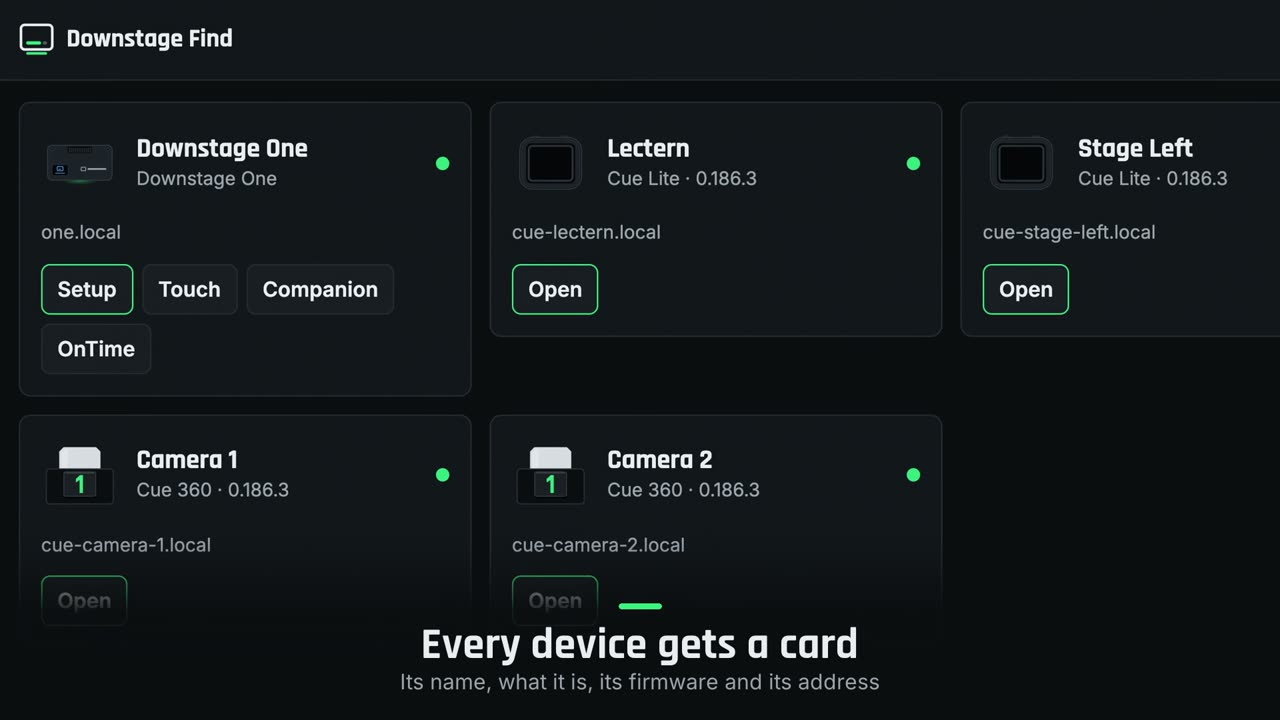
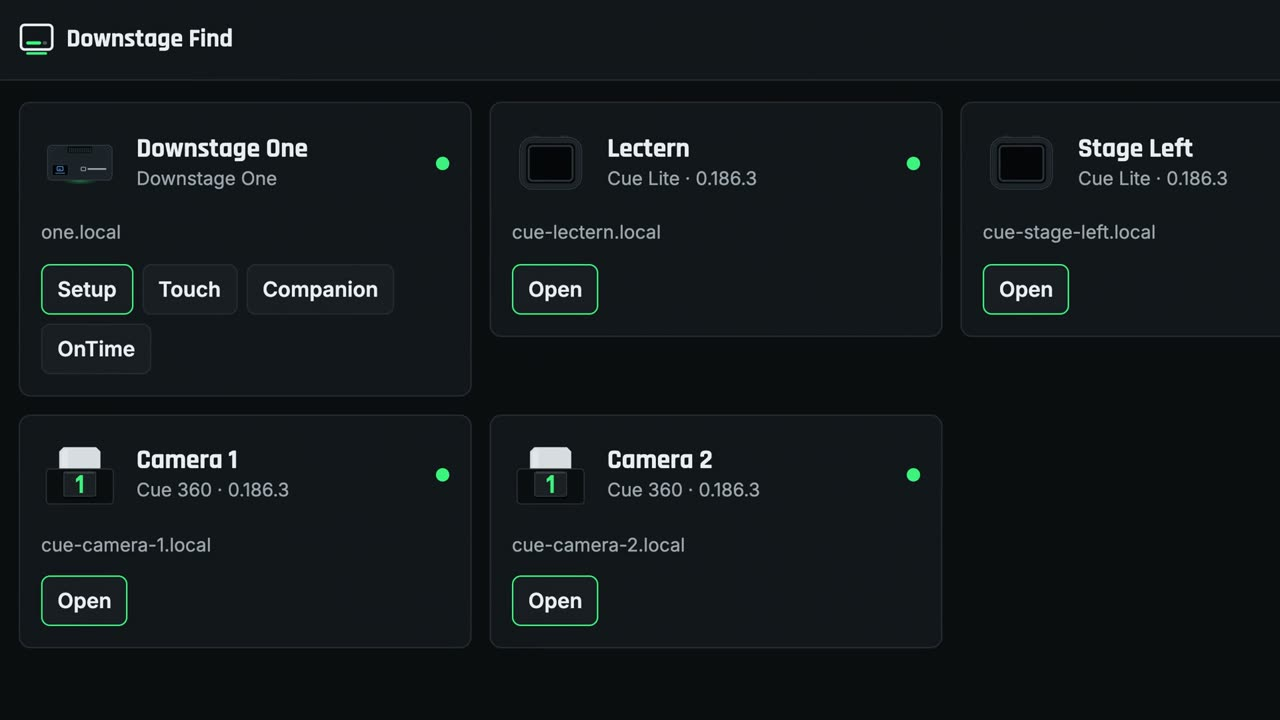
Support: Mac apps first, the Cue lights under their own heading, and app cards use frames without captions (Rob)

Changed region(s): [[0.3125, 0.7944, 0.6875, 0.9778], [0.0312, 0.7944, 0.0938, 0.8861]]

diff --git a/support/index.html b/support/index.html
@@ -50,7 +50,50 @@
 <section class="sec support-hero" aria-labelledby="sup-h">
   <div class="head" data-rise>
     <h1 id="sup-h">Downstage Support</h1>
-    <p>Tutorials, setup and help for the Cue Lite, Cue 360, Cue Mini and our Mac apps.</p>
+    <p>Help for our Mac apps and Cue lights.</p>
+  </div>
+  <div class="pills" data-rise style="--i:1">
+    <a class="pill" href="#apps">Mac apps</a>
+    <a class="pill" href="#cue-lights">Cue lights</a>
+    <a class="pill ghost" href="#contact">Contact us</a>
+  </div>
+</section>
+
+<section class="sec light" id="apps" aria-labelledby="apps-h">
+  <div class="head" data-rise>
+    <h2 id="apps-h">Mac apps.</h2>
+    <p>Setup steps, how to use each app, and answers.</p>
+  </div>
+  <div class="tuts" data-rise>
+      <!-- app-support cards -->
+      <a class="tut ready" href="/support/apps/show-builder/">
+        <div class="poster"><img class="shot" src="/static/video/tutorials/show-builder-poster.jpg?v=2" alt="" width="1280" height="720" loading="lazy"><span class="badge">Video and guide</span><span class="play" aria-hidden="true"></span></div>
+        <h3>Show Builder</h3>
+        <p>Lay out and send your first Companion page.</p>
+      </a>
+      <a class="tut ready" href="/support/apps/supersource-builder/">
+        <div class="poster"><img class="shot" src="/static/video/loops/supersource-smart-buttons-poster.jpg?v=2" alt="" width="1280" height="720" loading="lazy"><span class="badge">Guide</span></div>
+        <h3>SuperSource Builder</h3>
+        <p>Design a SuperSource look and its Companion buttons.</p>
+      </a>
+      <a class="tut ready" href="/support/apps/virtual-deck/">
+        <div class="poster"><img class="shot" src="/static/video/tutorials/virtual-deck-poster.jpg?v=2" alt="" width="1280" height="720" loading="lazy"><span class="badge">Video and guide</span><span class="play" aria-hidden="true"></span></div>
+        <h3>Virtual Deck</h3>
+        <p>Put a Stream Deck on your screen and join Companion.</p>
+      </a>
+      <a class="tut ready" href="/support/apps/downstage-find/">
+        <div class="poster"><img class="shot" src="/static/video/tutorials/downstage-find-poster.jpg?v=2" alt="" width="1280" height="720" loading="lazy"><span class="badge">Video and guide</span><span class="play" aria-hidden="true"></span></div>
+        <h3>Downstage Find</h3>
+        <p>Find your Downstage devices and open their apps.</p>
+      </a>
+      <!-- /app-support cards -->
+  </div>
+</section>
+
+<section class="sec dark" id="cue-lights" aria-labelledby="cue-h">
+  <div class="head" data-rise>
+    <h2 id="cue-h">Cue lights.</h2>
+    <p>Tutorials, setup and help for the Cue Lite, Cue 360 and Cue Mini.</p>
   </div>
   <div class="pills" data-rise style="--i:1">
     <a class="pill ghost" href="#tutorials">Tutorials</a>
@@ -58,14 +101,12 @@
     <a class="pill ghost" href="#downloads">Guide and updates</a>
     <a class="pill ghost" href="#questions">Questions</a>
     <a class="pill ghost" href="#help">Troubleshooting</a>
-    <a class="pill ghost" href="#apps">Apps</a>
-    <a class="pill ghost" href="#contact">Contact us</a>
   </div>
 </section>
 
 <section class="sec light" id="tutorials" aria-labelledby="tut-h">
   <div class="head" data-rise>
-    <h2 id="tut-h">Tutorials.</h2>
+    <h2 id="tut-h">Cue light tutorials.</h2>
   </div>
   <div class="tuts">
       <a class="tut" id="tut-setup" data-video="setup" href="#tutorials" aria-disabled="true">
@@ -119,7 +160,7 @@
 
 <section class="sec" id="questions" aria-labelledby="sq-h">
   <div class="head" data-rise>
-    <h2 id="sq-h">Questions.</h2>
+    <h2 id="sq-h">Cue light questions.</h2>
   </div>
   <div class="faq">
     <details name="faq">
@@ -147,7 +188,7 @@
 
 <section class="sec light" id="help" aria-labelledby="help-h">
   <div class="head" data-rise>
-    <h2 id="help-h">Troubleshooting.</h2>
+    <h2 id="help-h">Cue light troubleshooting.</h2>
     <p>A Downstage light says what is wrong in a sentence. Here is what to do about it.</p>
   </div>
   <div class="faq">
@@ -195,37 +236,6 @@
       <summary>How do I update a light?</summary>
       <div class="ans">Updates are uploaded from the light's own page, and the light restarts on the new version. Firmware downloads will be posted on this page.</div>
     </details>
-  </div>
-</section>
-
-<section class="sec" id="apps" aria-labelledby="apps-h">
-  <div class="head" data-rise>
-    <h2 id="apps-h">Apps.</h2>
-    <p>Setup steps, how to use them and answers for each of our Mac apps.</p>
-  </div>
-  <div class="tuts" data-rise>
-      <!-- app-support cards -->
-      <a class="tut ready" href="/support/apps/show-builder/">
-        <div class="poster"><img class="shot" src="/static/video/tutorials/show-builder-poster.jpg?v=1" alt="" width="1280" height="720" loading="lazy"><span class="badge">Video and guide</span><span class="play" aria-hidden="true"></span></div>
-        <h3>Show Builder</h3>
-        <p>Lay out and send your first Companion page.</p>
-      </a>
-      <a class="tut ready" href="/support/apps/supersource-builder/">
-        <div class="poster"><img class="shot" src="/static/video/loops/supersource-smart-buttons-poster.jpg?v=2" alt="" width="1280" height="720" loading="lazy"><span class="badge">Guide</span></div>
-        <h3>SuperSource Builder</h3>
-        <p>Design a SuperSource look and its Companion buttons.</p>
-      </a>
-      <a class="tut ready" href="/support/apps/virtual-deck/">
-        <div class="poster"><img class="shot" src="/static/video/tutorials/virtual-deck-poster.jpg?v=1" alt="" width="1280" height="720" loading="lazy"><span class="badge">Video and guide</span><span class="play" aria-hidden="true"></span></div>
-        <h3>Virtual Deck</h3>
-        <p>Put a Stream Deck on your screen and join Companion.</p>
-      </a>
-      <a class="tut ready" href="/support/apps/downstage-find/">
-        <div class="poster"><img class="shot" src="/static/video/tutorials/downstage-find-poster.jpg?v=1" alt="" width="1280" height="720" loading="lazy"><span class="badge">Video and guide</span><span class="play" aria-hidden="true"></span></div>
-        <h3>Downstage Find</h3>
-        <p>Find your Downstage devices and open their apps.</p>
-      </a>
-      <!-- /app-support cards -->
   </div>
 </section>
 

diff --git a/support/apps/downstage-find/index.html b/support/apps/downstage-find/index.html
@@ -58,7 +58,7 @@
     <a class="pill ghost" href="/support/#apps">All app support</a>
   </div>
   <figure class="guide-video" data-rise style="--i:2">
-    <video controls playsinline preload="none" poster="/static/video/tutorials/downstage-find-poster.jpg?v=1" width="1280" height="720" data-app="downstage-find" aria-label="Use Downstage Find"><source src="/static/video/tutorials/downstage-find.mp4?v=1" type="video/mp4"></video>
+    <video controls playsinline preload="none" poster="/static/video/tutorials/downstage-find-poster.jpg?v=2" width="1280" height="720" data-app="downstage-find" aria-label="Use Downstage Find"><source src="/static/video/tutorials/downstage-find.mp4?v=1" type="video/mp4"></video>
     <figcaption>Use Downstage Find</figcaption>
   </figure>
 </section>

diff --git a/support/apps/show-builder/index.html b/support/apps/show-builder/index.html
@@ -58,7 +58,7 @@
     <a class="pill ghost" href="/support/#apps">All app support</a>
   </div>
   <figure class="guide-video" data-rise style="--i:2">
-    <video controls playsinline preload="none" poster="/static/video/tutorials/show-builder-poster.jpg?v=1" width="1280" height="720" data-app="show-builder" aria-label="Build your first page"><source src="/static/video/tutorials/show-builder.mp4?v=1" type="video/mp4"></video>
+    <video controls playsinline preload="none" poster="/static/video/tutorials/show-builder-poster.jpg?v=2" width="1280" height="720" data-app="show-builder" aria-label="Build your first page"><source src="/static/video/tutorials/show-builder.mp4?v=1" type="video/mp4"></video>
     <figcaption>Build your first page</figcaption>
   </figure>
 </section>

diff --git a/support/apps/virtual-deck/index.html b/support/apps/virtual-deck/index.html
@@ -58,7 +58,7 @@
     <a class="pill ghost" href="/support/#apps">All app support</a>
   </div>
   <figure class="guide-video" data-rise style="--i:2">
-    <video controls playsinline preload="none" poster="/static/video/tutorials/virtual-deck-poster.jpg?v=1" width="1280" height="720" data-app="virtual-deck" aria-label="Set up Virtual Deck"><source src="/static/video/tutorials/virtual-deck.mp4?v=1" type="video/mp4"></video>
+    <video controls playsinline preload="none" poster="/static/video/tutorials/virtual-deck-poster.jpg?v=2" width="1280" height="720" data-app="virtual-deck" aria-label="Set up Virtual Deck"><source src="/static/video/tutorials/virtual-deck.mp4?v=1" type="video/mp4"></video>
     <figcaption>Set up Virtual Deck</figcaption>
   </figure>
 </section>
